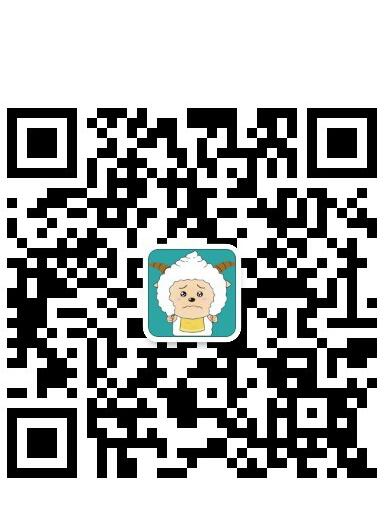
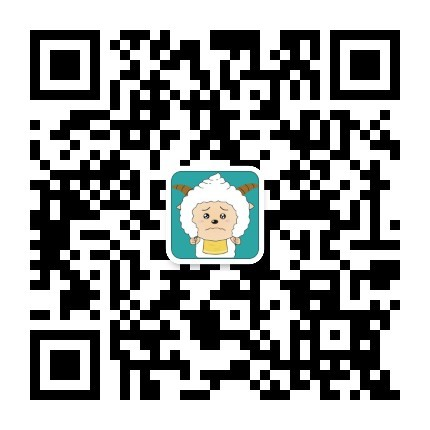
1.更换index.html的页面为公众号，原页面变为transform.html防止被滥用 2.更换公众号图片为官方提供的430px*430px的图片。3.调整item.php页面的文字的显示比例，放大字体更清晰。

diff --git a/tb/index.html b/tb/index.html
@@ -1,146 +1,31 @@
-<!DOCTYPE html>
+<!DOCTYPE HTML>
 <html lang="en">
-  <head>
-  	<meta charset="UTF-8">
+<head>
+    <meta charset="UTF-8">
     <meta http-equiv="X-UA-Compatible" content="IE=edge">
     <meta name="viewport" content="width=device-width, initial-scale=1">
       <!-- 上述3个meta标签*必须*放在最前面，任何其他内容都*必须*跟随其后！ -->
-    <title>转换</title>
+    <title>剁手薅羊毛</title>
     <link rel="stylesheet" href="css/bootstrap.min.css">
+    <script src="js/bootstrap.min.js"></script>
+    <script src="js/jquery-3.2.1.min.js"></script>
+    <script src="js/clipboard.min.js"></script>
     <style type="text/css">
       body {
-        padding-top: 10rem;
+        padding-top: 2rem;
         width: 100%
       }
     </style>
-  </head>
-  <body>
-    <div class="container">
-      <div class="row">
-        <div class="col-xs-8 col-sm-8">
-          <textarea id="before" name="before" class="form-control" rows="5"></textarea>
+</head>
+<body>
+<div class="container">
+    <div class="text-center div-font" style="max-width: 100%">
+        <img src="images/ly.jpg" width="430px" height="430px;">
+        <div class="product-tip" style="font-size: 3rem">
+            长按识别二维码 <br>
+            关注微信公众号 剁手薅羊毛<br>
+            获取更多神价格商品
         </div>
-        <div class="col-xs-4 col-sm-4">
-          <button id="transform" type="button" class="btn btn-primary btn-lg btn-block">转换</button>
-        </div>
-      </div>
-
-      <div class="checkbox row">
-        <div class="col-xs-5 col-sm-2">
-          <label>
-            <input id="shortUrl" name="shortUrl" type="checkbox" value="true" checked="checked"> 使用短链接
-          </label>
-        </div>
-        <div class="col-xs-7 col-sm-10">
-          <label>
-            <input id="baidu" name="baidu" type="checkbox" value="true" checked="checked"> 使用百度翻译
-          </label>
-        </div>   
-      </div>
-
-      <div class="row">
-        <div class="col-xs-8 col-sm-8">
-          <textarea id="copy-target" name="after" class="form-control" rows="5" readonly="readonly"></textarea>
-        </div>
-        <div class="col-xs-4 col-sm-4">
-          <button id="copy-btn" type="button" class="btn btn-danger btn-lg btn-block" data-clipboard-target="#copy-target">点我复制</button>
-        </div>
-      </div>
     </div>
-
-
-<!--   <div class="container">
-    <div class="div-font">
-      <form id="dto">
-        <table style="width: 100%">
-          <tr>
-            <td width="90%">
-              <textarea id="before" name="before" rows="5" cols="30">
-</textarea>
-            </td>
-            <td width="10%">
-              <button id="transform" type="button" class="btn-info" style="font-size: 3rem">转换</button>
-            </td>
-          </tr>
-          <tr>
-            <td colspan="2">
-              <table width="100%">
-                <tr>
-                  <td>
-                    <span style="font-size: 1rem;">使用短链接</span>
-                    <input id="shortUrl" name="shortUrl" type="checkbox" value="true" checked="checked"/>
-                  </td>
-                  <td>
-                    <span style="font-size: 1rem;">使用百度翻译</span>
-                    <input id="baidu" name="baidu" type="checkbox" value="true" checked="checked"/>
-                  </td>
-                </tr>
-              </table>
-            </td>
-          </tr>
-          <tr>
-            <td>
-              <textarea id="copy-target" name="after" readonly="readonly" rows="5" cols="30">
-</textarea>
-            </td>
-            <td>
-              <button id="copy-btn" type="button" class="btn btn-danger copy-btn" data-clipboard-target="#copy-target" style="font-size: 3rem">点我复制</button>
-            </td>
-          </tr>          
-        </table>
-      </form>
-    </div>
-  </div> -->
-  <script src="js/jquery-3.2.1.min.js"></script>
-  <script src="js/bootstrap.min.js"></script>
-  <script src="js/clipboard.min.js"></script>
-  <script>
-      var url_short;
-      $(document).ready(function() {
-          $('#transform').click(function () {
-              var longStr = $('#before').val();
-              var shortStr = longStr.split('￥');
-              var baidu = 0;
-
-              if($('#baidu').is(":checked")){
-              	baidu = 1;
-              }else {
-              	baidu = 0;
-              }
-              $.getJSON("sever.php",{item_id: shortStr[1],baidu: baidu},function (json) {
-                  url_short = json.urls[0].url_short;
-                  url_long = json.urls[0].url_long;
-                  if($('#shortUrl').is(":checked")){
-                      $('#copy-target').val("￥" + shortStr[1] +"￥\n"
-                              + url_short + "\n"
-                              + "↑苹果用户直接复制此消息打开手机淘宝，安卓用户点击链接复制淘口令");
-                  }else {
-                      $('#copy-target').val("￥" + shortStr[1] +"￥\n"
-                              +url_long +"\n"
-                              + "↑苹果用户直接复制此消息打开手机淘宝，安卓用户点击链接复制淘口令");
-                  }
-              });
-          });
-      });
-  </script>
-  <script>
-      var clipboard = new Clipboard('#copy-btn');
-      var interval = undefined;
-      clipboard.on('success', function (e) {
-          //          var btnTitle = $('#copy-btn').html();
-          $('#copy-btn').html("已复制");
-          if (interval != undefined) {
-              clearInterval(interval);
-          }
-
-          interval = setInterval(function () {
-              $('#copy-btn').html('点我复制');
-          }, 3000);
-      });
-      clipboard.on('error', function (e) {
-      });
-  </script>
-
-
-  </body>
+</body>
 </html>

diff --git a/tb/transform.html b/tb/transform.html
@@ -1,0 +1,103 @@
+<!DOCTYPE html>
+<html lang="en">
+  <head>
+  	<meta charset="UTF-8">
+    <meta http-equiv="X-UA-Compatible" content="IE=edge">
+    <meta name="viewport" content="width=device-width, initial-scale=1">
+      <!-- 上述3个meta标签*必须*放在最前面，任何其他内容都*必须*跟随其后！ -->
+    <title>转换</title>
+    <link rel="stylesheet" href="css/bootstrap.min.css">
+    <style type="text/css">
+      body {
+        padding-top: 10rem;
+        width: 100%
+      }
+    </style>
+  </head>
+  <body>
+    <div class="container">
+      <div class="row">
+        <div class="col-xs-8 col-sm-8">
+          <textarea id="before" name="before" class="form-control" rows="5"></textarea>
+        </div>
+        <div class="col-xs-4 col-sm-4">
+          <button id="transform" type="button" class="btn btn-primary btn-lg btn-block">转换</button>
+        </div>
+      </div>
+
+      <div class="checkbox row">
+        <div class="col-xs-5 col-sm-2">
+          <label>
+            <input id="shortUrl" name="shortUrl" type="checkbox" value="true" checked="checked"> 使用短链接
+          </label>
+        </div>
+        <div class="col-xs-7 col-sm-10">
+          <label>
+            <input id="baidu" name="baidu" type="checkbox" value="true" checked="checked"> 使用百度翻译
+          </label>
+        </div>   
+      </div>
+
+      <div class="row">
+        <div class="col-xs-8 col-sm-8">
+          <textarea id="copy-target" name="after" class="form-control" rows="5" readonly="readonly"></textarea>
+        </div>
+        <div class="col-xs-4 col-sm-4">
+          <button id="copy-btn" type="button" class="btn btn-danger btn-lg btn-block" data-clipboard-target="#copy-target">点我复制</button>
+        </div>
+      </div>
+    </div>
+    
+  <script src="js/jquery-3.2.1.min.js"></script>
+  <script src="js/bootstrap.min.js"></script>
+  <script src="js/clipboard.min.js"></script>
+  <script>
+      var url_short;
+      $(document).ready(function() {
+          $('#transform').click(function () {
+              var longStr = $('#before').val();
+              var shortStr = longStr.split('￥');
+              var baidu = 0;
+
+              if($('#baidu').is(":checked")){
+              	baidu = 1;
+              }else {
+              	baidu = 0;
+              }
+              $.getJSON("sever.php",{item_id: shortStr[1],baidu: baidu},function (json) {
+                  url_short = json.urls[0].url_short;
+                  url_long = json.urls[0].url_long;
+                  if($('#shortUrl').is(":checked")){
+                      $('#copy-target').val("￥" + shortStr[1] +"￥\n"
+                              + url_short + "\n"
+                              + "↑苹果用户直接复制此消息打开手机淘宝，安卓用户点击链接复制淘口令");
+                  }else {
+                      $('#copy-target').val("￥" + shortStr[1] +"￥\n"
+                              +url_long +"\n"
+                              + "↑苹果用户直接复制此消息打开手机淘宝，安卓用户点击链接复制淘口令");
+                  }
+              });
+          });
+      });
+  </script>
+  <script>
+      var clipboard = new Clipboard('#copy-btn');
+      var interval = undefined;
+      clipboard.on('success', function (e) {
+          //          var btnTitle = $('#copy-btn').html();
+          $('#copy-btn').html("已复制");
+          if (interval != undefined) {
+              clearInterval(interval);
+          }
+
+          interval = setInterval(function () {
+              $('#copy-btn').html('点我复制');
+          }, 3000);
+      });
+      clipboard.on('error', function (e) {
+      });
+  </script>
+
+
+  </body>
+</html>

diff --git a/tb/item.php b/tb/item.php
@@ -1,5 +1,5 @@
 <!DOCTYPE HTML>
-<html>
+<html lang="en">
 <head>
     <meta charset="UTF-8">
     <meta http-equiv="X-UA-Compatible" content="IE=edge">
@@ -7,7 +7,6 @@
       <!-- 上述3个meta标签*必须*放在最前面，任何其他内容都*必须*跟随其后！ -->
     <title><?php echo $_GET['item_id'];?></title>
     <link rel="stylesheet" href="css/bootstrap.min.css">
-    <link rel="stylesheet" href="css/main.css">
     <script src="js/bootstrap.min.js"></script>
     <script src="js/jquery-3.2.1.min.js"></script>
     <script src="js/clipboard.min.js"></script>
@@ -16,25 +15,23 @@
 <div class="container">
     <div class="text-center div-font" style="max-width: 100%">
         <div>
-            <input id="copy-target" class="text-center border-0" style="color: #aaaaaa" value="">
+            <!-- <input id="copy-target" class="text-center border-0" style="color: #aaaaaa" value=""> -->
+            <label id="copy-target" style="font-size: 5rem"></label>
+            <!-- <h1  id="copy-target"></h1> -->
         </div>
-        <button id="copy-btn" class="btn btn-lg btn-danger copy-btn" data-clipboard-target="#copy-target">点我复制淘口令</button>
-        <div class="product-tip" style="font-size: 1.5rem">打开「手机淘宝」即可「领取优惠券」并购买</div>
+        <button id="copy-btn" class="btn btn-lg btn-danger copy-btn" data-clipboard-target="#copy-target" style="font-size: 3rem">点我复制淘口令</button>
+        <div style="font-size: 3rem">打开「手机淘宝」即可「领取优惠券」并购买</div>
 
-        <img src="images/ly.jpg" width="300px" height="400px;">
-        <div class="product-tip" style="font-size: 1.5rem">
+        <img src="images/ly.jpg" width="430px" height="430px;">
+        <div class="product-tip" style="font-size: 3rem">
             长按识别二维码 <br>
-            添加微信获取更多优惠券
-        </div>
-
-
-
-        <div>
+            关注微信公众号 剁手薅羊毛<br>
+            获取更多神价格商品
         </div>
     </div>
     <script>
         $(function () {
-            $('#copy-target').val("￥<?php echo $_GET['item_id'];?>￥");
+            $('#copy-target').html("￥<?php echo $_GET['item_id'];?>￥");
         });
 
         var clipboard = new Clipboard('#copy-btn');
